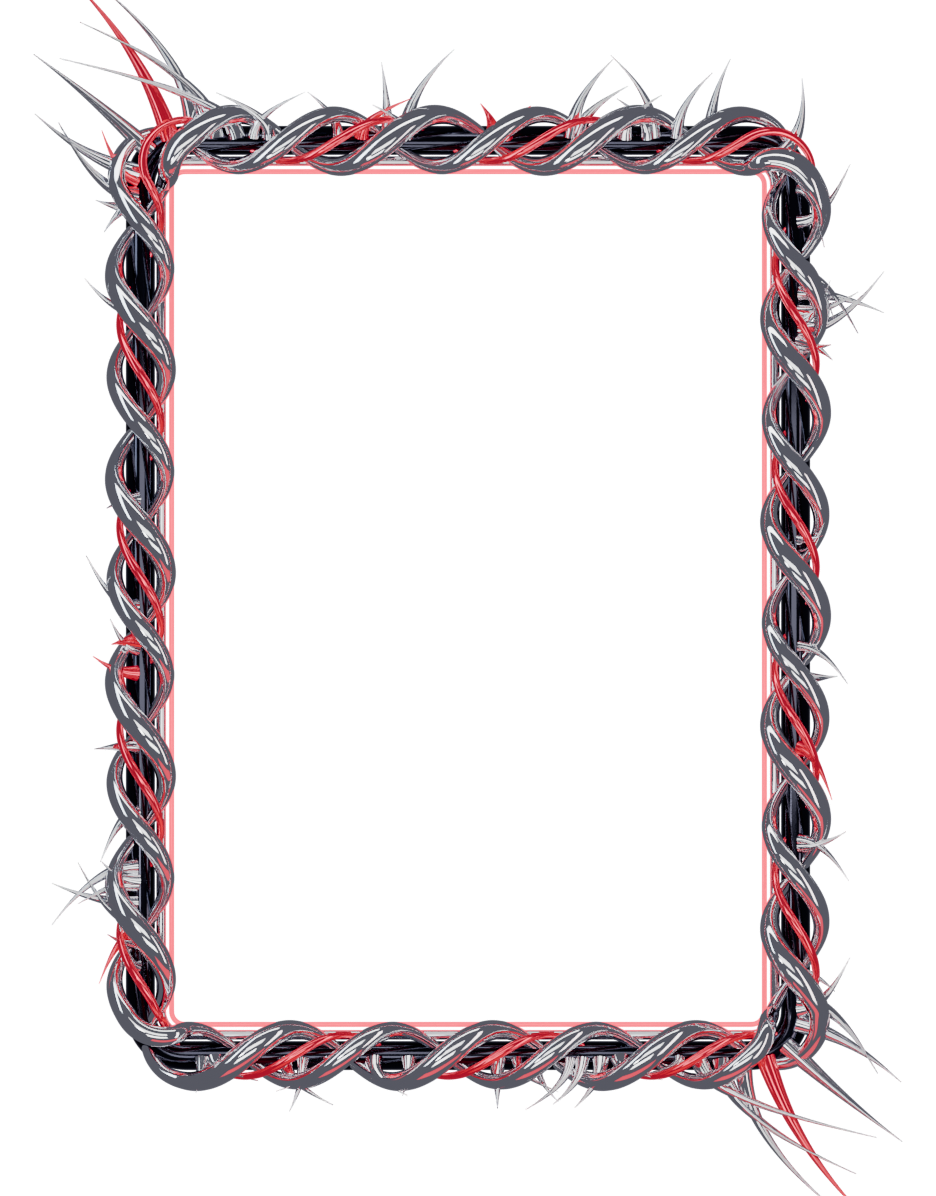
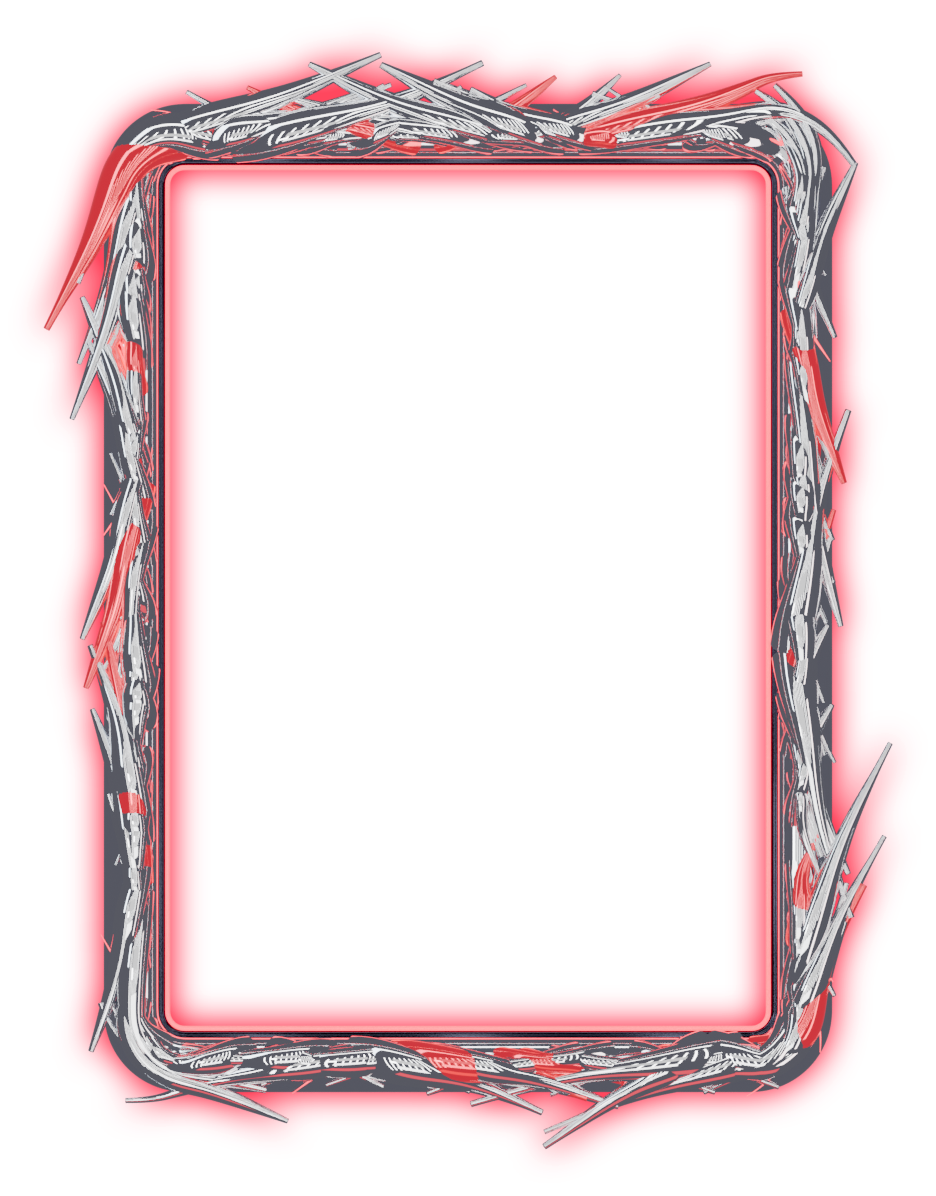
Blender : cadre chrome, flammes de métal et lueur rouge
Claude-Session: https://claude.ai/code/session_01SEmKegzC7vveBJkmsMpnY6

diff --git a/tools/blender/build_chrome_frame.py b/tools/blender/build_chrome_frame.py
@@ -85,61 +85,54 @@ def rim(t, w=W, h=H, r=R_CORNER):
 
 
 def build():
-    chrome = principled('Chrome', (0.97, 0.97, 1.0), 1, 0.04)
-    dark = principled('ChromeNoir', (0.05, 0.05, 0.07), 1, 0.12)
-    red = principled('Ecarlate', (0.85, 0.0, 0.05), 0.6, 0.18, (1.0, 0.02, 0.08), 4.0)
-    redchrome = principled('ChromeRouge', (0.9, 0.08, 0.12), 1, 0.1, (1.0, 0.0, 0.05), 0.6)
+    chrome = principled('Chrome', (0.98, 0.98, 1.0), 1, 0.03)
+    chrome_soft = principled('ChromeDoux', (0.95, 0.95, 1.0), 1, 0.03)
+    dark = principled('ChromeNoir', (0.04, 0.04, 0.06), 1, 0.1)
+    red = principled('Ecarlate', (0.85, 0.0, 0.05), 0.5, 0.2, (1.0, 0.02, 0.06), 6.0)
+    redchrome = principled('ChromeRouge', (0.95, 0.1, 0.12), 1, 0.08, (1.0, 0.0, 0.04), 1.2)
 
-    N = 420
-    # 1. moulure : un jonc chrome sombre et un jonc chrome clair, posés sur le bord
+    N = 480
     base = [rim(i / N) for i in range(N)]
-    curve('Moulure', [(p[0] + n[0] * 0.02, p[1] + n[1] * 0.02, 0) for p, n in base], [1] * N, dark, 0.11, cyclic=True)
-    curve('Jonc', [(p[0] - n[0] * 0.14, p[1] - n[1] * 0.14, 0.06) for p, n in base], [1] * N, chrome, 0.035, cyclic=True)
-    # 2. liseré rouge lumineux à l'intérieur
-    curve('Lisere', [(p[0] - n[0] * 0.22, p[1] - n[1] * 0.22, 0.04) for p, n in base], [1] * N, red, 0.018, cyclic=True)
+    # 1. bandeau chrome épais tout autour (le corps du cadre), bord intérieur sombre et liseré rouge lumineux
+    curve('Corps', [(p[0] + n[0] * 0.08, p[1] + n[1] * 0.08, 0) for p, n in base], [1] * N, chrome_soft, 0.22, cyclic=True)
+    curve('BordInt', [(p[0] - n[0] * 0.13, p[1] - n[1] * 0.13, 0.02) for p, n in base], [1] * N, dark, 0.05, cyclic=True)
+    curve('Lisere', [(p[0] - n[0] * 0.19, p[1] - n[1] * 0.19, 0.05) for p, n in base], [1] * N, red, 0.02, cyclic=True)
 
-    # 3. rubans torsadés : deux larges rubans chrome argent qui s'enroulent, et un fin ruban rouge entre eux
-    turns = 15
-    for phase, mat, amp, bev, base_r in ((0.0, chrome, 0.2, 0.085, 1.0), (math.pi, chrome, 0.2, 0.075, 0.95), (math.pi / 2, redchrome, 0.16, 0.03, 1.0)):
+    # 2. flammes de chrome liquide : chaque mèche part du bord, file le long du cadre puis s'enroule vers l'extérieur
+    def wisp(t, span, rise, curl, thick, mat, direction):
         pts, radii = [], []
-        for i in range(N):
-            t = i / N
-            (x, y), (nx, ny) = rim(t)
-            a = t * turns * 2 * math.pi + phase
-            off = amp * math.sin(a)
-            z = 0.2 + 0.16 * math.cos(a)
-            pts.append((x + nx * (0.02 + off), y + ny * (0.02 + off), z))
-            radii.append(base_r * (0.55 + 0.6 * (0.5 + 0.5 * math.cos(a))))
-        curve('Ruban', pts, radii, mat, bev, cyclic=True)
+        steps = 18
+        for k in range(steps):
+            f = k / (steps - 1)
+            (x, y), (nx, ny) = rim(t + direction * span * f)
+            h = 0.02 + rise * (f ** 1.6) + 0.05 * math.sin(f * math.pi * 2.2) * f
+            # enroulement en bout de flamme : la pointe repart vers l'arrière
+            ang = curl * max(0.0, f - 0.45) ** 2 * 10
+            tx, ty = -ny * direction, nx * direction
+            bx = x + nx * h - tx * ang
+            by = y + ny * h - ty * ang
+            pts.append((bx, by, 0.12 + 0.25 * f + 0.1 * math.sin(f * 5)))
+            radii.append(max(0.12, (1 - f) ** 0.55 * (0.8 + 0.2 * math.sin(f * 4 + t * 40))))  # bouts arrondis : du métal liquide, pas des épines
+        curve('Flamme', pts, radii, mat, thick)
 
-    # 4. éclats chromés en flammes : effilés, courbés vers l'extérieur ; plus nombreux et grands en haut
-    def blade(t, length, width, bend, mat):
+    # couche serrée de petites flammes tout le long
+    for i in range(110):
+        t = i / 110 + rng.random() * 0.004
         (x, y), (nx, ny) = rim(t)
-        tx, ty = -ny, nx  # tangente
-        pts, radii = [], []
-        steps = 9
-        for s in range(steps):
-            f = s / (steps - 1)
-            out = 0.05 + length * f
-            side = bend * f * f
-            pts.append((x + nx * out + tx * side, y + ny * out + ty * side, 0.1 + 0.15 * f))
-            radii.append(max(0.02, (1 - f) ** 1.3))
-        curve('Eclat', pts, radii, mat, width)
-
-    for i in range(64):
+        top = ny > 0.5
+        rise = 0.12 + rng.random() * 0.16 + (0.22 * rng.random() if top else 0)
+        wisp(t, 0.022 + rng.random() * 0.025, rise, 0.04 + rng.random() * 0.06, 0.1 + rng.random() * 0.06,
+             redchrome if rng.random() < 0.12 else chrome, 1 if rng.random() < 0.6 else -1)
+    # grandes flammes : en haut, aux coins, et quelques-unes qui jaillissent sur les côtés
+    for t0, n, big in ((0.0, 9, 1.0), (0.12, 7, 0.8), (0.25, 6, 0.75), (0.5, 9, 1.0), (0.75, 6, 0.75), (0.62, 5, 0.6), (0.37, 5, 0.6), (0.88, 5, 0.6)):
+        for k in range(n):
+            t = t0 + (k - n / 2) * 0.006 + rng.random() * 0.003
+            wisp(t, 0.035 + rng.random() * 0.04, (0.3 + rng.random() * 0.4) * big, 0.08 + rng.random() * 0.08, 0.14 + rng.random() * 0.06,
+                 redchrome if k == n // 2 else chrome, 1 if k % 2 else -1)
+    # fines mèches rouges lumineuses glissées entre les flammes
+    for i in range(40):
         t = rng.random()
-        (x, y), (nx, ny) = rim(t)
-        top = 1.0 if ny > 0.5 else 0.0
-        length = 0.15 + rng.random() * 0.25 + top * rng.random() * 0.45
-        blade(t, length, 0.045 + rng.random() * 0.03, (rng.random() - 0.5) * 0.9, redchrome if rng.random() < 0.15 else chrome)
-    # grandes flammes chromées aux coins haut-gauche et bas-droit (comme un feu de métal), plus discrètes ailleurs
-    corner_t = [0.0 - 0.004, 0.5 - 0.004]
-    for t0 in corner_t:
-        for k in range(7):
-            blade(t0 + (k - 3) * 0.007, 0.6 + (3 - abs(k - 3)) * 0.28, 0.075, (k - 3) * 0.32 + 0.4, redchrome if k == 3 else chrome)
-    for t0 in (0.25 - 0.004, 0.75 - 0.004):
-        for k in range(4):
-            blade(t0 + (k - 1.5) * 0.006, 0.45 + (k % 2) * 0.2, 0.06, (k - 1.5) * 0.3, chrome)
+        wisp(t, 0.02 + rng.random() * 0.02, 0.08 + rng.random() * 0.2, 0.05, 0.03, red, 1 if rng.random() < 0.5 else -1)
 
 
 def studio():
@@ -166,13 +159,15 @@ def studio():
         p.data.materials.append(m)
         p.visible_camera = False
 
-    panel((0, 0, 9), (7, 3), (1, 1, 1), 5)
+    panel((0, 0, 9), (7, 3), (1, 1, 1), 2)
     panel((-6, 3, 5), (1.5, 9), (0.8, 0.9, 1), 10)
     panel((6, -2, 5), (1.2, 9), (1, 0.85, 0.85), 8)
     panel((0, 7, 4), (9, 1.2), (1, 1, 1), 9)
     panel((1, -8, 3), (8, 2), (1, 0.05, 0.1), 2.2)    # contre-jour rouge : quelques reflets écarlates dans le chrome
     panel((0, -5, 8), (6, 2), (1, 1, 1), 7)           # lumière basse : le chrome reste clair partout
     panel((-3, -2, 7), (1.2, 1.2), (1, 1, 1), 16)
+    for k in range(-4, 5):
+        panel((k * 1.6, 0.8 * k, 10), (0.35, 12), (1, 1, 1), 12)  # rayures de lumière : reflets nets dans le chrome
 
     cam_data = bpy.data.cameras.new('Cam')
     cam_data.type = 'ORTHO'
@@ -203,7 +198,22 @@ def main():
     path = os.path.join(OUT, 'cadre_chrome.png')
     bpy.context.scene.render.filepath = path
     bpy.ops.render.render(write_still=True)
+    glow(path)
     print('rendu :', path)
+
+
+def glow(path):
+    """Halo rouge derrière le cadre (comme une aura) : flou de la silhouette, teinté, glissé dessous."""
+    from PIL import Image, ImageFilter
+    fr = Image.open(path).convert('RGBA')
+    a = fr.split()[3]
+    halo = Image.new('RGBA', fr.size, (255, 20, 50, 0))
+    soft = a.filter(ImageFilter.GaussianBlur(16)).point(lambda v: min(200, int(v * 1.1)))
+    halo.putalpha(soft)
+    out = Image.new('RGBA', fr.size, (0, 0, 0, 0))
+    out.alpha_composite(halo)
+    out.alpha_composite(fr)
+    out.save(path)
 
 
 main()
